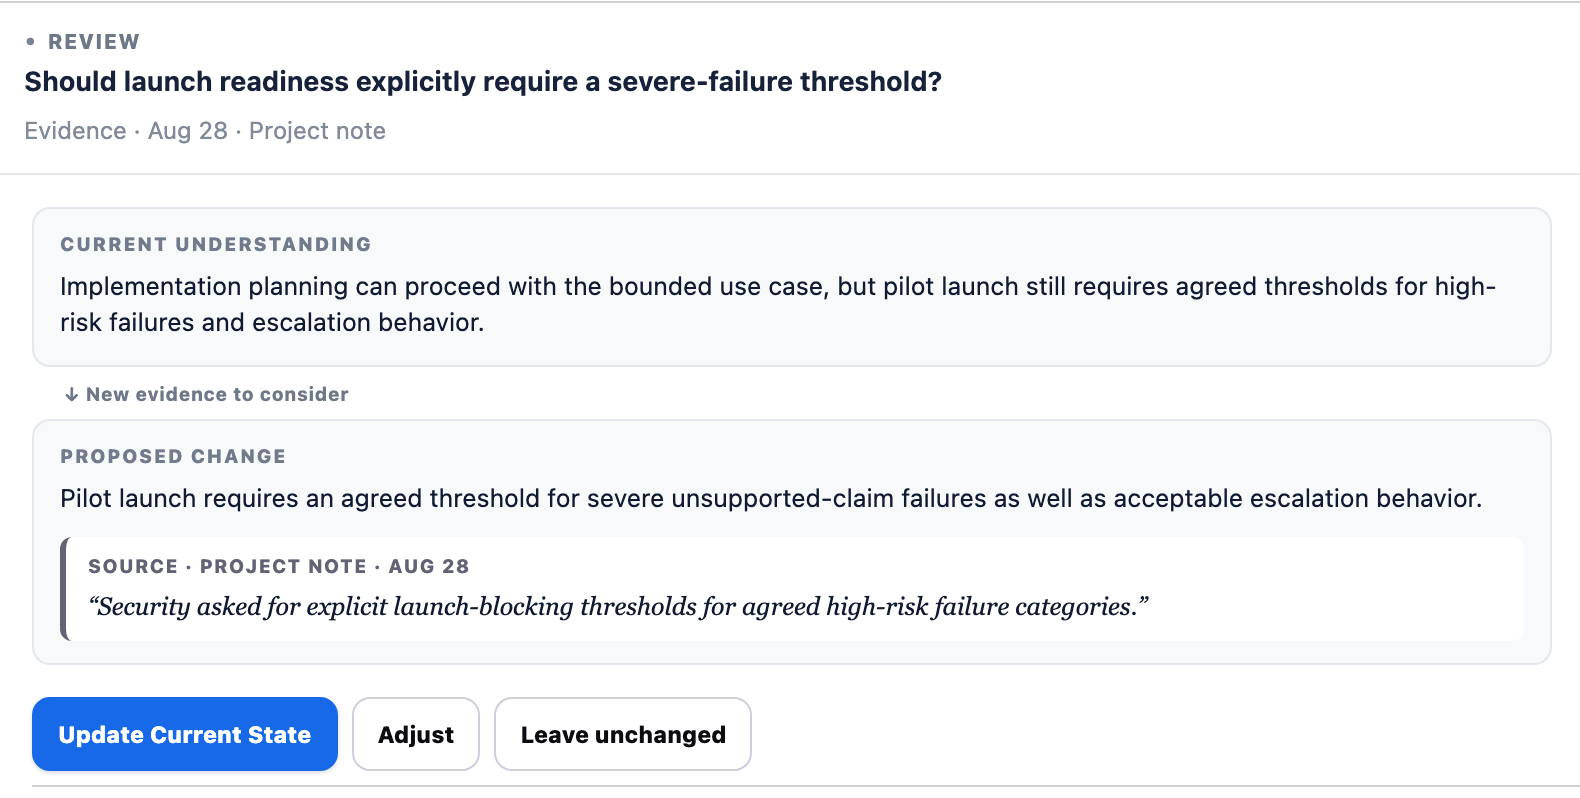
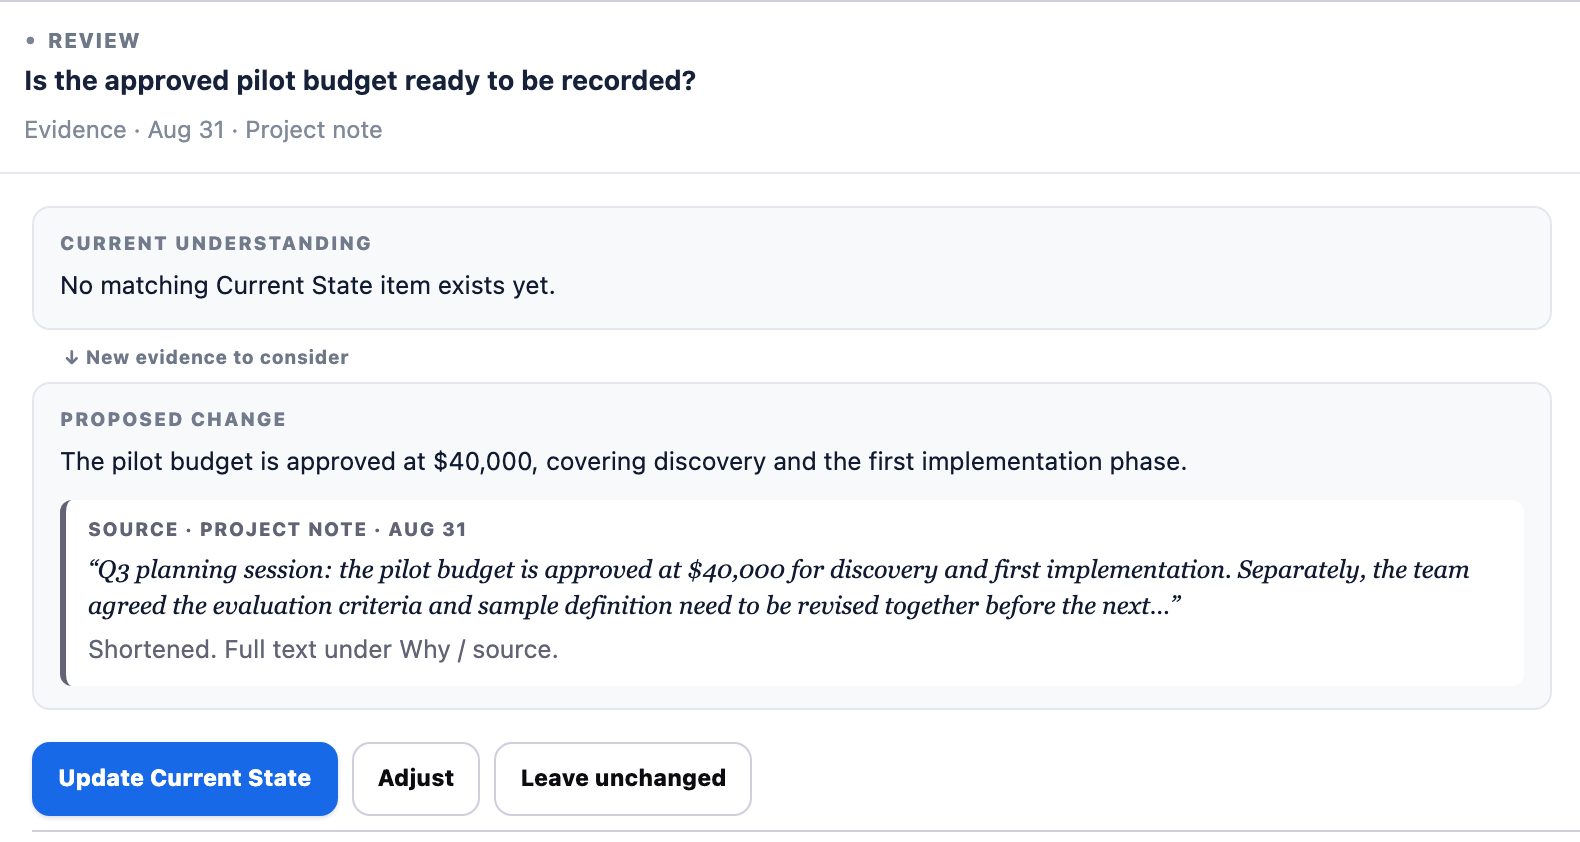
#595: trial uses the $40,000 pilot-budget Review (Paige, Nov 2)
Its quoted source fully supports the proposal. Re-captured locally (2x desktop,
3x phone, crop only) from the #593 branch against a disposable Northstar copy;
alt text and caption updated, including that the quote is shortened on the card.

diff --git a/docs/review/595-state-capture-trial/index.html b/docs/review/595-state-capture-trial/index.html
@@ -11,16 +11,16 @@
 </style>
 </head><body>
 <main class="meridian-page-shell case-system-page" id="main-content"><article class="case-page-content flagship-case">
-<p class="trial-note"><strong>Review-only trial for pedringt/ai-learning#595.</strong> Not linked from the site. The capture shows the Review screen from the unmerged #593 branch, run locally against the seeded Northstar example project. Do not publish until #593 ships.</p>
+<p class="trial-note"><strong>Review-only trial for pedringt/ai-learning#595.</strong> Not linked from the site. The capture (the $40,000 pilot-budget Review, chosen Nov 2) shows the Review screen from the unmerged #593 branch, run locally against the seeded Northstar example project. Do not publish until #593 ships.</p>
 <section class="section seam-learning"><div class="kicker">Proposed placement · State case study, “The key product decisions”</div>
 <h2>A person sees the evidence before deciding</h2>
 <p>When new evidence could change what the project treats as true, State opens a Review. The reviewer sees the current understanding, the change the AI proposes, and a short quote from the source it came from, then decides. The proposal does not change Current State on its own; the reviewer’s choice does.</p>
 <figure class="capture-trial">
 <picture>
-<source media="(max-width: 600px)" srcset="state-review-phone@3x.png" width="358" height="615"/>
-<img src="state-review-desktop@2x.png" width="790" height="399" alt="A State Review asking whether launch readiness should explicitly require a severe-failure threshold. Current understanding: pilot launch still requires agreed thresholds for high-risk failures and escalation behavior. Proposed change: pilot launch requires an agreed threshold for severe unsupported-claim failures as well as acceptable escalation behavior. Quoted source, a project note from August 28: “Security asked for explicit launch-blocking thresholds for agreed high-risk failure categories.” Below are three buttons: Update Current State, Adjust, and Leave unchanged."/>
+<source media="(max-width: 600px)" srcset="state-review-phone@3x.png" width="358" height="601"/>
+<img src="state-review-desktop@2x.png" width="790" height="421" alt="A State Review asking whether the approved pilot budget is ready to be recorded. Current understanding: no matching Current State item exists yet. Proposed change: the pilot budget is approved at $40,000, covering discovery and the first implementation phase. Quoted source, a project note from August 31, shortened: “Q3 planning session: the pilot budget is approved at $40,000 for discovery and first implementation. Separately, the team agreed the evaluation criteria and sample definition need to be revised together before the next…” with a note that the full text is under Why / source. Below are three buttons: Update Current State, Adjust, and Leave unchanged."/>
 </picture>
-<figcaption>A Review from State's Northstar example project. The quote is the stored project note; the proposed change is the AI's interpretation of it. The proposal does not change Current State until a person chooses one of the buttons.</figcaption>
+<figcaption>A Review from State's Northstar example project. The quote is the stored project note, shortened on the card; the proposed change is the interpretation of it. The proposal does not change Current State until a person chooses one of the buttons.</figcaption>
 </figure>
 </section>
 </article></main>
